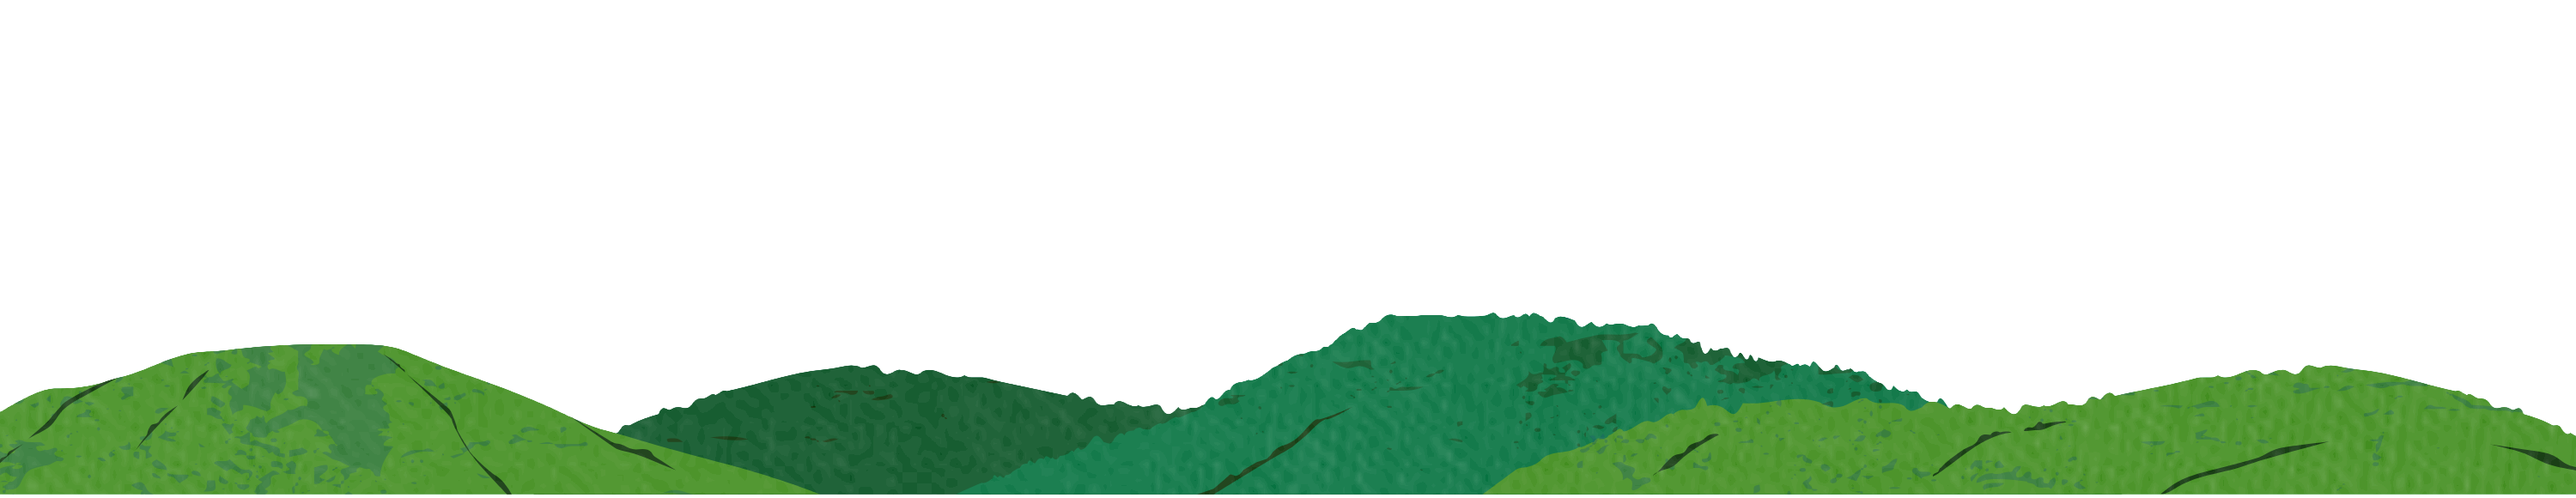
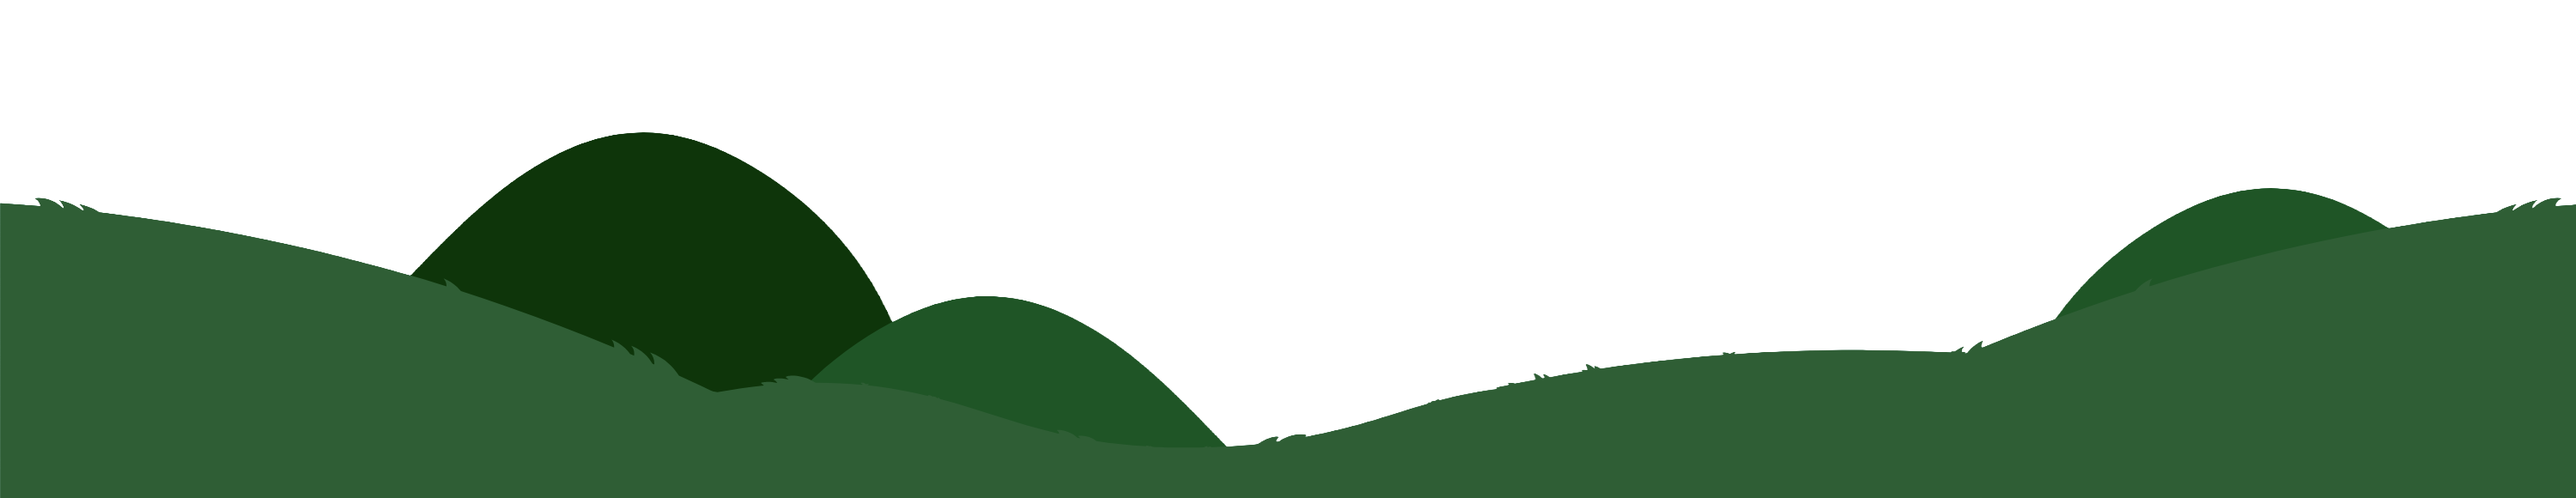
Popups + NPC + Finetuning win scenario

diff --git a/index.js b/index.js
@@ -1,30 +1,40 @@
 const canvas = document.querySelector('canvas')
 const c = canvas.getContext('2d')
+const popup = document.querySelector('#welcome')
+const winPopup = document.querySelector('#winPopup')
 
 // Image import
-const SkyImg = new Image();
-SkyImg.src = 'Sky.png'; 
+const skyImg = new Image();
+skyImg.src = 'Sky.png'; 
 const hillsImg = new Image();
 hillsImg.src = 'Hills.png'; 
+const grassImg = new Image();
+grassImg.src = 'Grass.png'; 
 const platformImg = new Image();
 platformImg.src = 'Platform.png'; 
+const homeImg = new Image();
+homeImg.src = 'home.png'; 
 
-const GuyRightImg = new Image();
-GuyRightImg.src = 'GuyRight.png'; 
-const GuyLeftImg = new Image();
-GuyLeftImg.src = 'GuyLeft.png'; 
-
+const guyRightImg = new Image();
+guyRightImg.src = 'GuyRight.png'; 
+const guyLeftImg = new Image();
+guyLeftImg.src = 'GuyLeft.png'; 
+const girlLeftImg = new Image();
+girlLeftImg.src = 'GirlLeft.png'; 
 
 
 canvas.width = 1024
 canvas.height = 576
 
 const gravity = 0.5
+const gameEnd = 3500
+
+let gameWon = false
 
 // Player class construction
 class Player {
     constructor() {
-        this.speed = 7
+        this.speed = 8
         this.position = {
             x: 100,
             y: 100
@@ -39,12 +49,13 @@ class Player {
     }
 
     draw() {
-        if (keys.left.pressed) {
-            c.drawImage(GuyLeftImg, this.position.x, this.position.y, this.width, this.height)
-        } else {
-            c.drawImage(GuyRightImg, this.position.x, this.position.y, this.width, this.height)
-        }
         
+        if (keys.left.pressed) {
+            c.drawImage(guyLeftImg, this.position.x, this.position.y, this.width, this.height)
+        } else {
+            c.drawImage(guyRightImg, this.position.x, this.position.y, this.width, this.height)
+        }
+       
     }
 
     update() {
@@ -63,21 +74,57 @@ class Player {
     }
 }
 
+class NPC {
+    constructor({ x, y, image, width = 50, height = 50 }) {
+        this.position = {
+            x,
+            y
+        }
+
+        this.image = image
+        this.width = width
+        this.height = height
+    }
+
+    draw() {
+        let screenX = this.position.x - scrollOffset
+
+        c.drawImage(
+            this.image,
+            screenX,
+            this.position.y,
+            this.width,
+            this.height
+        )
+    }
+    isTouching(player) {
+        let npcScreenX = this.position.x - scrollOffset
+
+        return (
+            player.position.x + player.width >= npcScreenX &&
+            player.position.x <= npcScreenX + this.width &&
+            player.position.y + player.height >= this.position.y &&
+            player.position.y <= this.position.y + this.height
+        )
+    }
+}
+
 // Platform class construction
 class Platform {
-    constructor({ x, y }) {
+    constructor({ x, y, image, w, h }) {
         this.position = {
             x: x,
             y: y
         }
 
-        this.width = 200
-        this.height = 100
+        this.image = image
+        this.width = w
+        this.height = h
     }
 
     draw() {
             c.drawImage(
-            platformImg,
+            this.image,
             this.position.x,
             this.position.y,
             this.width,
@@ -86,6 +133,7 @@ class Platform {
         }
 }
 
+// Background element construction
 class Background {
     constructor({ x, y, image }) {
         this.position = {
@@ -110,21 +158,34 @@ class Background {
 }
 
 let player = new Player()
+let npc = new NPC({x: 3870, y: 357, image: girlLeftImg, width: 50, height: 50})
 let platforms = []
-let sky = new Background({x: 0, y: 0, image: SkyImg})
-let hills = new Background({x: 0, y: 0, image: hillsImg})
+let sky = new Background({x: 0, y: 0, image: skyImg})
+let hills = new Background({x: 0, y: 80, image: hillsImg})
+let grass = new Background({x: 0, y: 30, image: grassImg})
 
 let scrollOffset = 0
 
 // Initialization
 function init() {
     player = new Player()
+    npc = new NPC({x: 3870, y: 357, image: girlLeftImg, width: 50, height: 50})
     platforms = [
-        new Platform({x: 0, y: 480}), 
-        new Platform({x: 400, y: 350}),
-        new Platform({x: 700, y: 200})]
-    sky = new Background({x: 0, y: 0, image: SkyImg})
-    hills = new Background({x: 0, y: 0, image: hillsImg})
+        new Platform({x: 0, y: 480, image: platformImg, w: 200, h: 100}), 
+        new Platform({x: 400, y: 350, image: platformImg, w: 200, h: 100}),
+        new Platform({x: 700, y: 200, image: platformImg, w: 200, h: 100}),
+        new Platform({x: 1100, y: 350, image: platformImg, w: 200, h: 100}),
+        new Platform({x: 1500, y: 100, image: platformImg, w: 200, h: 100}),
+        new Platform({x: 1900, y: 300, image: platformImg, w: 200, h: 100}),
+        new Platform({x: 2100, y: 100, image: platformImg, w: 200, h: 100}),
+        new Platform({x: 2400, y: 200, image: platformImg, w: 200, h: 100}),
+        new Platform({x: 2900, y: 350, image: platformImg, w: 200, h: 100}),
+        new Platform({x: 3500, y: 100, image: platformImg, w: 200, h: 100}),
+        new Platform({x: 3700, y: 300, image: homeImg, w: 400, h: 300}),
+    ]
+    sky = new Background({x: 0, y: 0, image: skyImg})
+    hills = new Background({x: 0, y: 80, image: hillsImg})
+    grass = new Background({x: 0, y: 30, image: grassImg})
 
     scrollOffset = 0
 }
@@ -145,11 +206,13 @@ function animate() {
 
     sky.draw()
     hills.draw()
+    grass.draw()
     
     platforms.forEach(platform => {
         platform.draw()
     })
     player.update()
+    npc.draw()
 
     if (keys.right.pressed && player.position.x < 400) {
         player.velocity.x = player.speed
@@ -167,8 +230,9 @@ function animate() {
                 platform.position.x -= player.speed
             })
 
-            sky.position.x -= player.speed * 0.33
-            hills.position.x -= player.speed * 0.66
+            sky.position.x -= player.speed * 0.2
+            hills.position.x -= player.speed * 0.4
+            grass.position.x -= player.speed * 0.6
 
         } else if (keys.left.pressed && scrollOffset > 0) {
             scrollOffset -= player.speed
@@ -176,9 +240,11 @@ function animate() {
                 platform.position.x += player.speed
             })
 
-            sky.position.x += player.speed * 0.33
-            hills.position.x += player.speed * 0.66
+            sky.position.x += player.speed * 0.2
+            hills.position.x += player.speed * 0.4
+            grass.position.x += player.speed * 0.6
         }
+
     }
 
     
@@ -186,7 +252,8 @@ function animate() {
 
         // Collision detection
         const groundHeight = 65
-        const platformCollisionY = platform.position.y + platform.height - groundHeight
+        const platformCollisionY = platform.position.y + platform.height / 2.8
+        const playerPixels = 15
 
     if (
         player.velocity.y > 0 &&
@@ -194,8 +261,8 @@ function animate() {
         player.position.y + player.height <= platformCollisionY &&
         player.position.y + player.height + player.velocity.y >= platformCollisionY &&
 
-        player.position.x + player.width >= platform.position.x &&
-        player.position.x <= platform.position.x + platform.width
+        player.position.x + player.width - playerPixels >= platform.position.x &&
+        player.position.x + playerPixels <= platform.position.x + platform.width
     ) {
         player.velocity.y = 0
 
@@ -203,8 +270,11 @@ function animate() {
     }
 
         // Win scenario
-        if (scrollOffset > 2000) {
+        // scrollOffset >= gameEnd
+        if (npc.isTouching(player)) {
             console.log('you win!')
+            winPopup.classList.remove('hidden')
+            gameWon = true
         }
 
         // Lose scenario
@@ -262,5 +332,21 @@ window.addEventListener('keyup', ( { keyCode }) => {
         case 87:
             console.log('up stop') 
             break
+    }
+})
+
+// To remove pop-ups
+window.addEventListener('keydown', (event) => {
+    if (event.key === 'Enter') {
+        popup.style.display = 'none'
+    }
+})
+
+// To restart game after winning
+window.addEventListener('keydown', (event) => {
+    if (event.key === 'Enter' && gameWon) {
+        winPopup.classList.add('hidden')
+        init()
+        gameWon = false
     }
 })

diff --git a/index.html b/index.html
@@ -1,5 +1,26 @@
 <canvas></canvas>
 
+<div id="title">
+    <h1>Run Home</h1>
+</div>
+
+<div class="popup" id="welcome">
+    <div class="popup-content">
+        <h2>Welcome!</h2>
+        <p>Help our hero return home using the W, A, S, D keys.</p>
+        <p>Careful not to let the hero fall!</p>
+        <p class="enter-text">Press ENTER to continue.</p>
+    </div>
+</div>
+
+<div class="popup hidden" id="winPopup">
+    <div class="popup-content">
+        <h2>You Win!</h2>
+        <p>You helped our hero get home safely!</p>
+        <p class="enter-text">Press ENTER to play again.</p>
+    </div>
+</div>
+
 <style>
     body {
         margin: 0;
@@ -7,8 +28,67 @@
         display: flex;
         align-items: center;
         justify-content: center;
+
         height: 100vh;
+        overflow: hidden;
     }
+
+    canvas {
+        display: block;
+    }
+
+    #title {
+        position: absolute;
+        top: 15px;
+
+        color: white;
+        font-family: Arial, sans-serif;
+
+        z-index: 5;
+    }
+
+    .popup {
+        position: absolute;
+
+        top: 0;
+        left: 0;
+
+        width: 100%;
+        height: 100%;
+
+        display: flex;
+        align-items: center;
+        justify-content: center;
+
+        background-color: rgba(0, 0, 0, 0.6);
+        border: 10px;
+        border-color: black;
+
+        z-index: 10;
+    }
+
+    .hidden {
+        display: none;
+    }
+
+    .popup-content {
+        background-color: tan;
+        border: 10px;
+        border-color: black;
+
+        padding: 30px 50px;
+        border-radius: 10px;
+
+        text-align: center;
+        font-family: Arial, sans-serif;
+    }
+
+    .enter-text {
+        margin-top: 25px;
+        font-size: 14px;
+        color: rgb(86, 44, 44);
+    }
+
 </style>
 
 <script src="index.js"></script>
